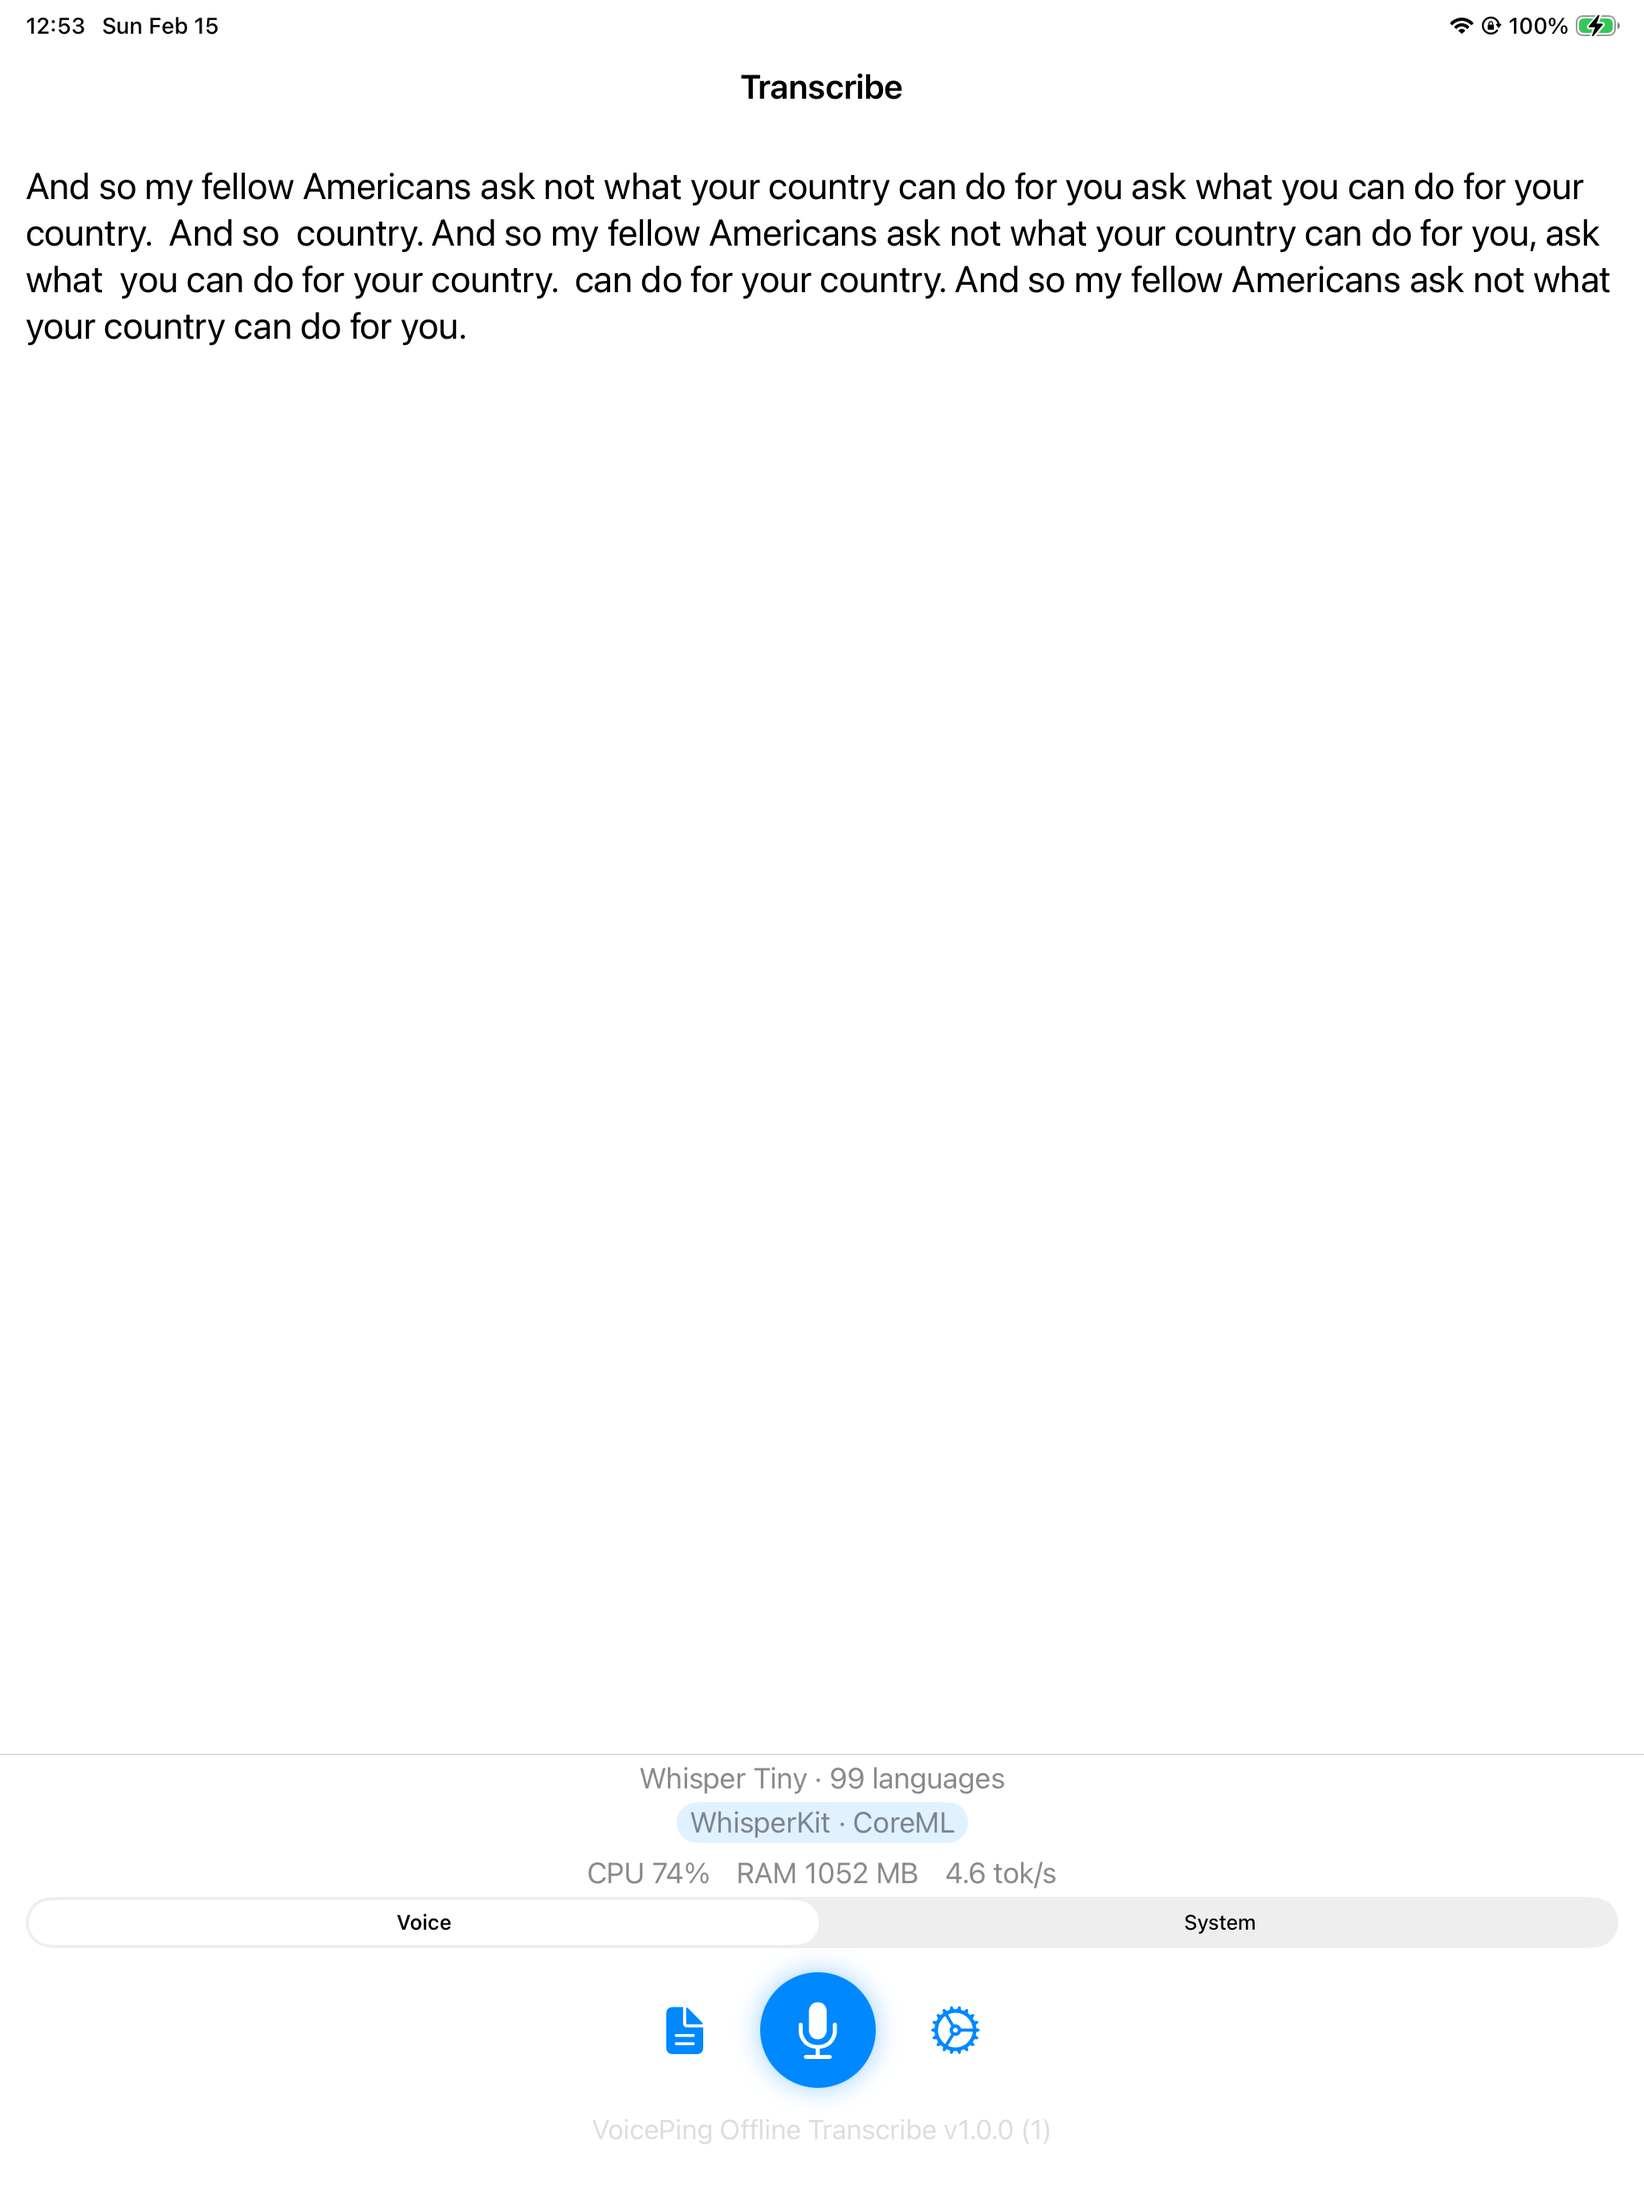
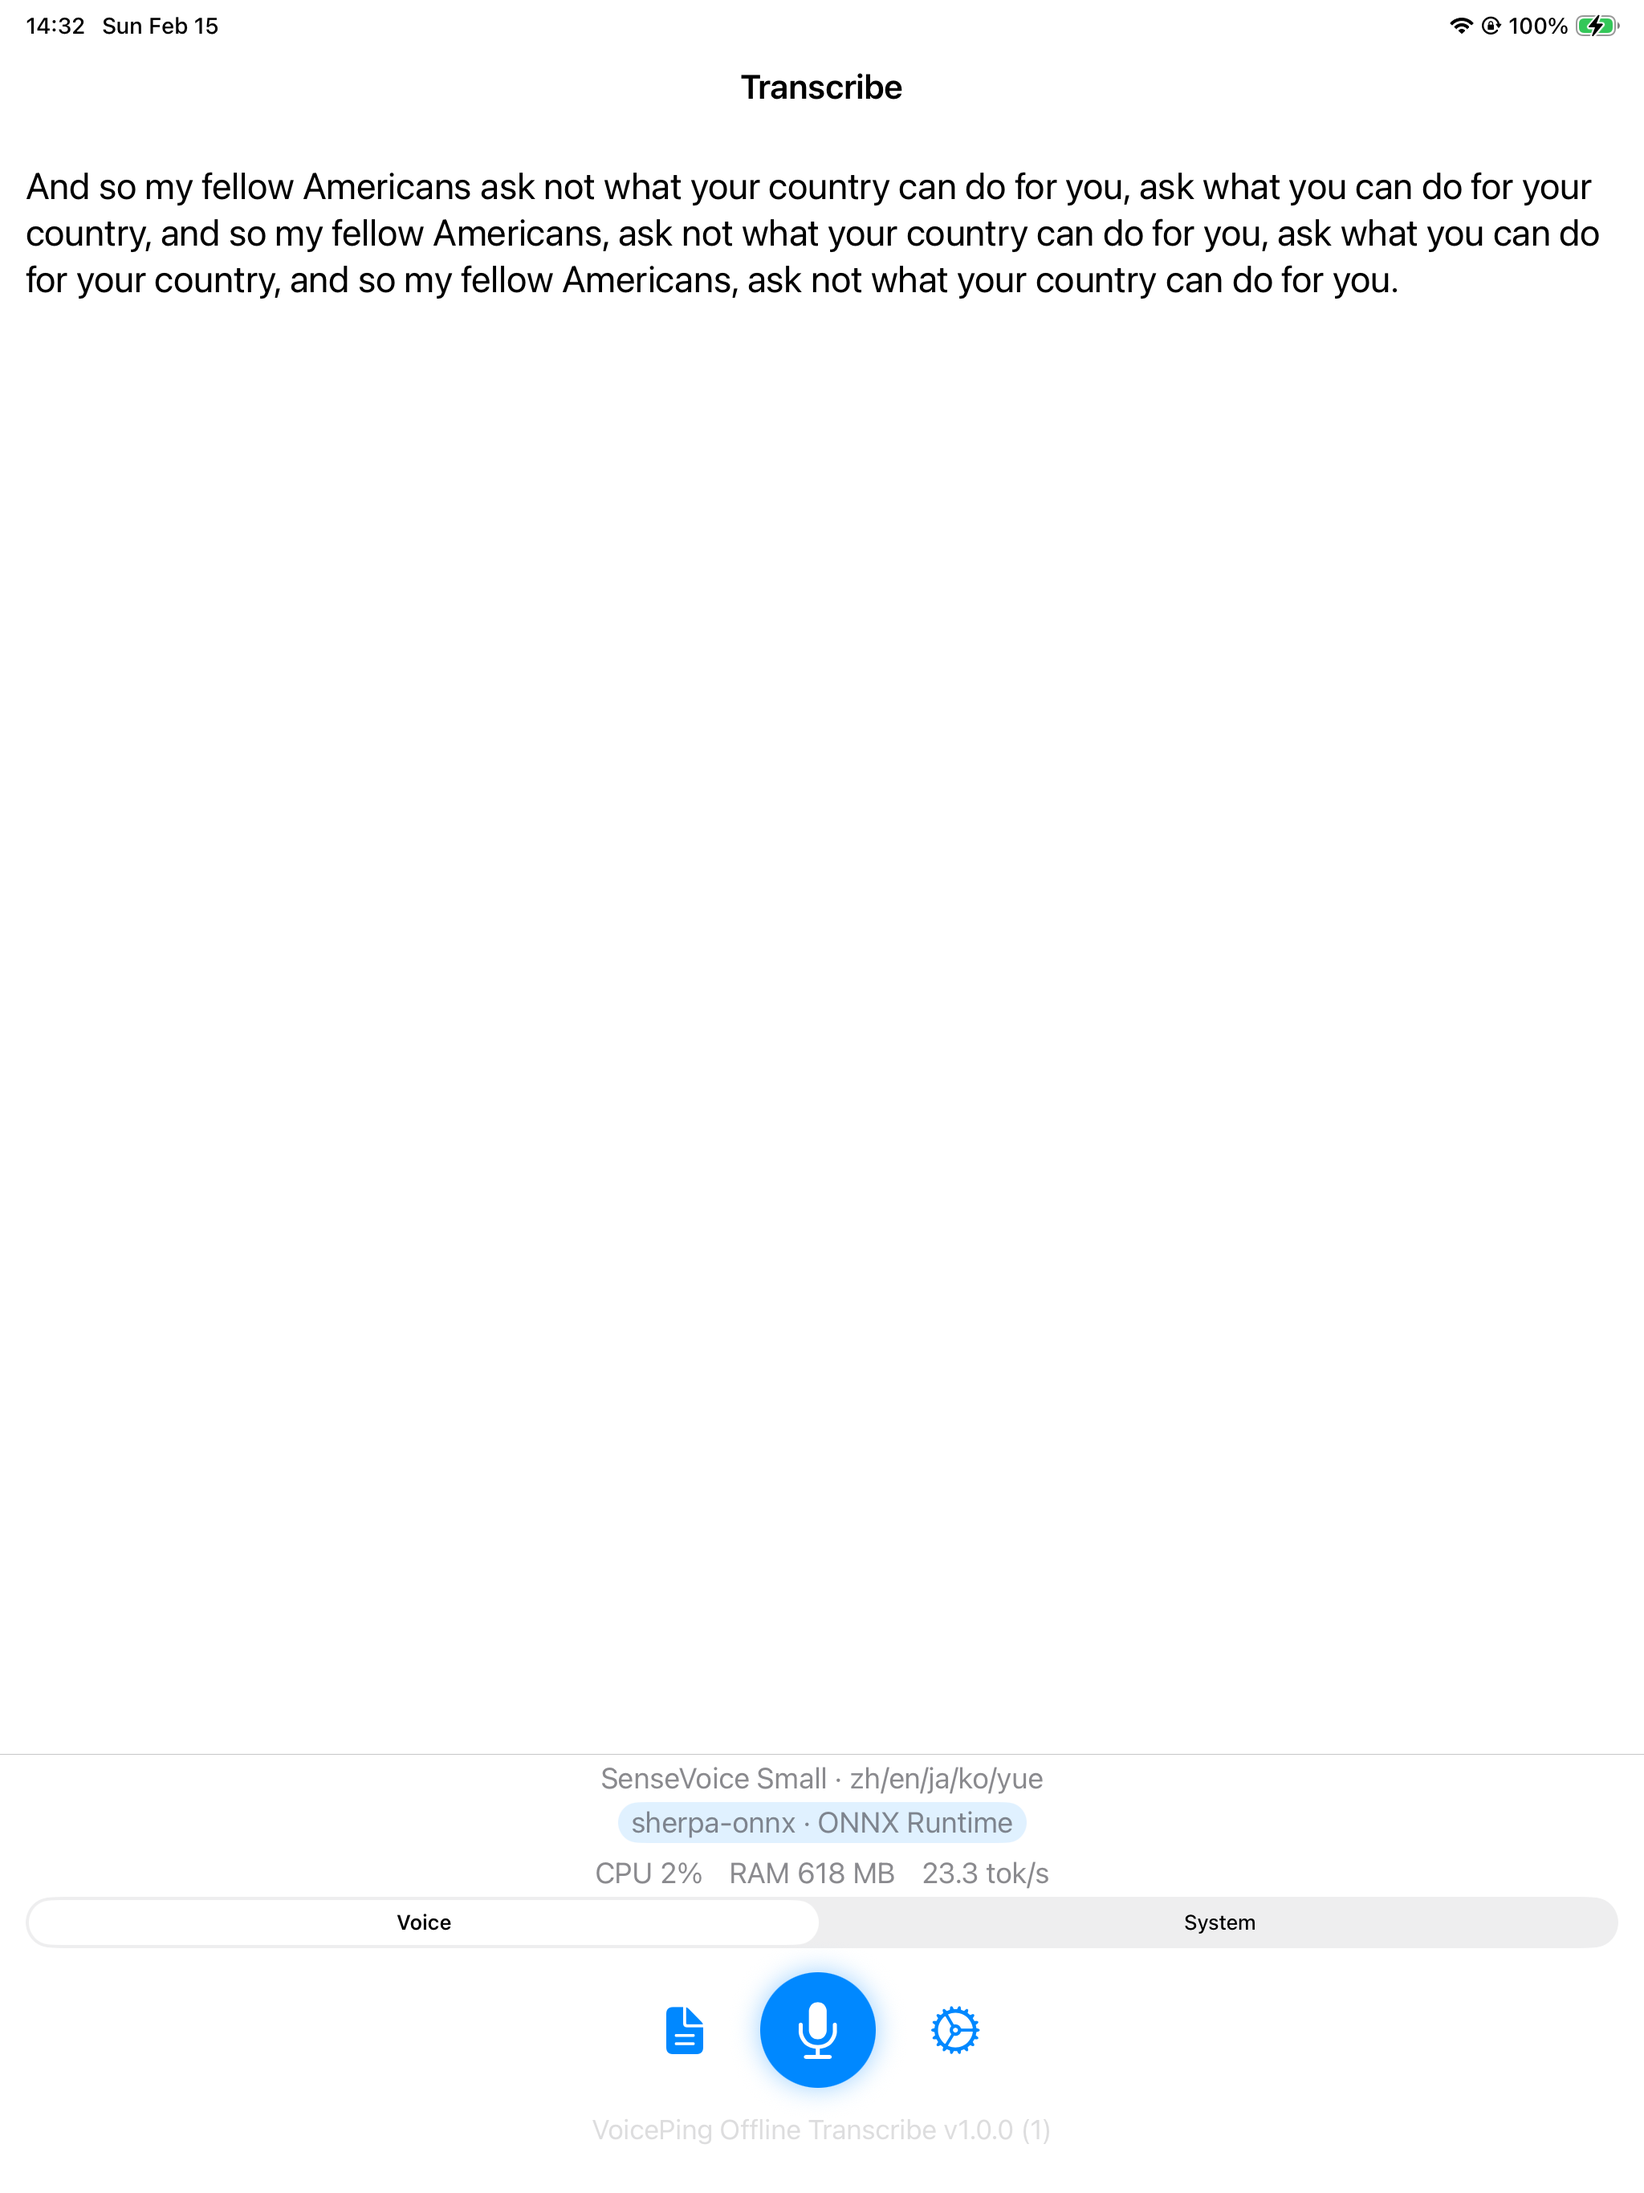
docs: refresh iPad screenshots and add system audio capture UITest
Recaptured all iOS screenshots from real iPad Pro 3rd gen. Added
test_11 system broadcast mode test with correct audio_mode_picker ID.

Changed region(s): [[0.0, 0.0622, 0.9688, 0.1556], [0.375, 0.8089, 0.625, 0.8712]]

diff --git a/OfflineTranscriptionUITests/UserFlowUITests.swift b/OfflineTranscriptionUITests/UserFlowUITests.swift
@@ -511,6 +511,120 @@ final class UserFlowUITests: XCTestCase {
         )
     }
 
+    // MARK: - Test 11: README Screenshots (SenseVoice Small)
+
+    /// Captures all screenshots needed for README:
+    /// - ios-home.png: Model selection setup screen
+    /// - ios-transcription.png: SenseVoice Small transcription result
+    /// - ios-system-recording.png: System mode selected
+    /// - Demo frames for GIF (idle → transcribing → result)
+    func test_11_readmeScreenshots() {
+        let demoDir = "/tmp/ios_readme_screenshots"
+        try? FileManager.default.removeItem(atPath: demoDir)
+        try? FileManager.default.createDirectory(atPath: demoDir, withIntermediateDirectories: true)
+
+        // --- Phase 1: Capture setup/home screen ---
+        let setupApp = XCUIApplication()
+        setupApp.launchArguments = ["--reset-state"]
+        setupApp.launch()
+        sleep(3)
+        saveDemoFrame(setupApp, to: demoDir, name: "ios-home.png")
+        setupApp.terminate()
+
+        // --- Phase 2: SenseVoice Small transcription + system mode ---
+        let app = launchApp(modelId: "sensevoice-small")
+        sleep(1)
+
+        // Wait for model load
+        waitForModelLoad(app)
+        dismissAnyAlerts(app)
+        sleep(1)
+
+        // Capture idle state (demo frame 1)
+        saveDemoFrame(app, to: demoDir, name: "demo_01_idle.png")
+
+        // Tap test file for transcription
+        let testFileBtn = app.buttons["test_file_button"]
+        XCTAssertTrue(testFileBtn.waitForExistence(timeout: shortTimeout))
+        testFileBtn.tap()
+        sleep(2)
+
+        // Capture transcribing state (demo frame 2)
+        saveDemoFrame(app, to: demoDir, name: "demo_02_transcribing.png")
+
+        // Wait for confirmed text
+        let confirmedText = app.staticTexts["confirmed_text"]
+        XCTAssertTrue(
+            confirmedText.waitForExistence(timeout: transcriptionTimeout),
+            "Confirmed text should appear after transcription"
+        )
+        sleep(1)
+
+        // Capture transcription result (demo frame 3 + ios-transcription.png)
+        saveDemoFrame(app, to: demoDir, name: "demo_03_result.png")
+        saveDemoFrame(app, to: demoDir, name: "ios-transcription.png")
+
+        // Verify transcription contains expected keywords
+        let text = confirmedText.label.lowercased()
+        XCTAssertTrue(
+            text.contains("country") || text.contains("ask") || text.contains("american"),
+            "Transcription should contain expected keywords, got: \(text)"
+        )
+
+        // --- Phase 3: Clear transcription, then switch to System mode ---
+        // Open settings and clear transcription so placeholder text shows
+        let settingsBtn = app.buttons["settings_button"]
+        if settingsBtn.waitForExistence(timeout: shortTimeout) {
+            settingsBtn.tap()
+            sleep(1)
+            let clearBtn = app.buttons["settings_clear_transcription"]
+            if clearBtn.waitForExistence(timeout: shortTimeout) {
+                clearBtn.tap()
+                sleep(1)
+            }
+            let doneBtn = app.buttons["settings_done_button"]
+            if doneBtn.waitForExistence(timeout: shortTimeout) {
+                doneBtn.tap()
+                sleep(1)
+            }
+        }
+
+        // Switch to System mode — try multiple approaches for the segmented control
+        let systemButton = app.buttons["System"]
+        if systemButton.waitForExistence(timeout: shortTimeout) {
+            systemButton.tap()
+            sleep(2)
+        } else {
+            // Fallback: try segmented control by identifier
+            let picker = app.segmentedControls["audio_source_picker"]
+            if picker.waitForExistence(timeout: shortTimeout) {
+                picker.buttons.element(boundBy: 1).tap()
+                sleep(2)
+            }
+        }
+
+        // Capture system recording mode
+        saveDemoFrame(app, to: demoDir, name: "ios-system-recording.png")
+
+        captureScreenshot(app, step: "readme_done")
+        NSLog("[README] All screenshots saved to %@", demoDir)
+    }
+
+    // MARK: - Demo Frame Helper
+
+    private func saveDemoFrame(_ app: XCUIApplication, to dir: String, name: String) {
+        let screenshot = app.screenshot()
+        let path = "\(dir)/\(name)"
+        try? screenshot.pngRepresentation.write(to: URL(fileURLWithPath: path))
+
+        let attachment = XCTAttachment(screenshot: screenshot)
+        attachment.name = "readme_\(name)"
+        attachment.lifetime = .keepAlways
+        add(attachment)
+
+        NSLog("[README] Frame saved: %@", path)
+    }
+
     // MARK: - Helpers
 
     private func launchApp(

diff --git a/README.md b/README.md
@@ -15,7 +15,7 @@ All inference runs on-device after model download.
 
 ![iOS File Transcription Demo](docs/screenshots/ios-file-transcription-demo.gif)
 
-> SenseVoice Small transcribing a 30s audio file on iPad Pro 3rd gen (A12X), 23.2 tok/s. [Full video (MP4)](docs/screenshots/ios-file-transcription-demo.mp4).
+> SenseVoice Small transcribing a 30s audio file on iPad Pro 3rd gen (A12X), 23.6 tok/s. [Full video (MP4)](docs/screenshots/ios-file-transcription-demo.mp4).
 
 ### macOS (MacBook Air M4)
 
